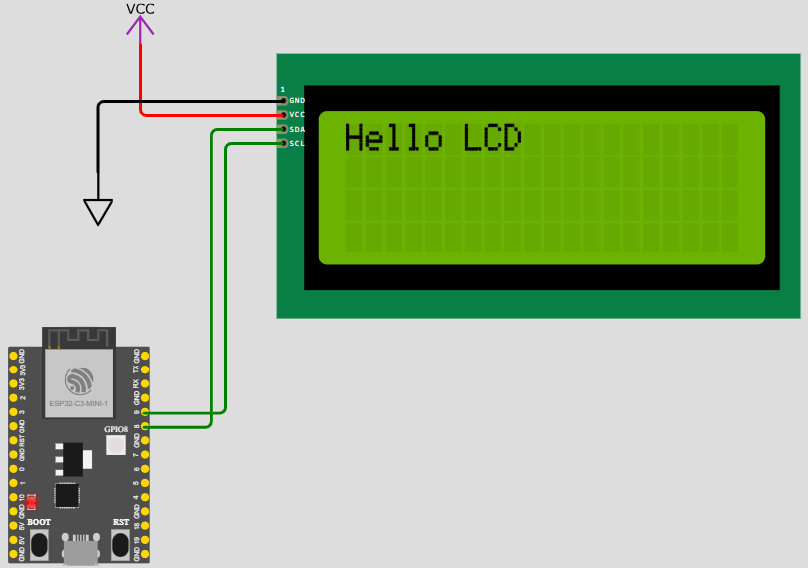
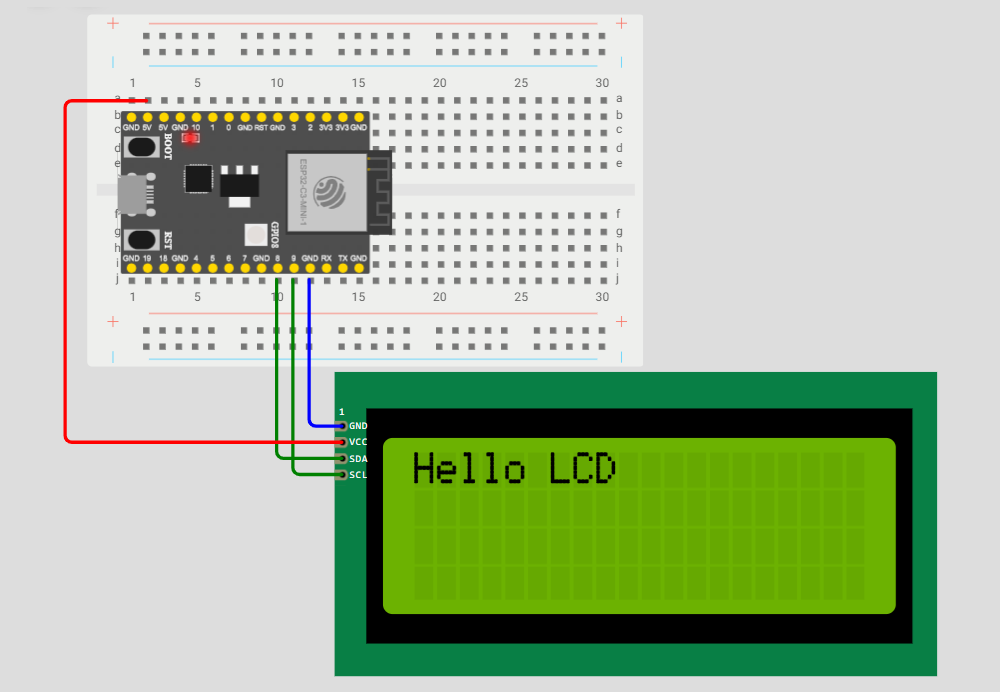
1142

diff --git a/Microcontroladores/2 - Espressif/html/2.1.9_a.html b/Microcontroladores/2 - Espressif/html/2.1.9_a.html
@@ -39,6 +39,7 @@
         <p class="MsoNormal" style="margin-bottom:.0001pt;line-height:14.25pt;background:white;"><span style="font-family:Consolas; font-size:10.5pt; color:#00979D; ">void</span><span style="font-family:Consolas; font-size:10.5pt; color:#4E5B61; "> </span><span style="font-family:Consolas; font-size:10.5pt; color:#D35400; ">loop</span><span style="font-family:Consolas; font-size:10.5pt; color:#434F54; ">()</span><span style="font-family:Consolas; font-size:10.5pt; color:#4E5B61; "> </span><span style="font-family:Consolas; font-size:10.5pt; color:#434F54; ">{</span><span style="font-family:Consolas; font-size:10.5pt; color:#4E5B61; "> </span></p>
         <p class="MsoNormal" style="margin-bottom:.0001pt;line-height:14.25pt;background:white;"><span style="font-family:Consolas; font-size:10.5pt; color:#95A5A6; ">&nbsp; // put your main code here, to run repeatedly:</span><span style="font-family:Consolas; font-size:10.5pt; color:#4E5B61; "> </span></p>
         <p class="MsoNormal" style="margin-bottom:.0001pt;line-height:14.25pt;background:white;"><span style="font-family:Consolas; font-size:10.5pt; color:#4E5B61; ">&nbsp; </span><span style="font-family:Consolas; font-size:10.5pt; color:#D35400; ">sensors</span><span style="font-family:Consolas; font-size:10.5pt; color:#4E5B61; ">.</span><span style="font-family:Consolas; font-size:10.5pt; color:#D35400; ">requestTemperatures</span><span style="font-family:Consolas; font-size:10.5pt; color:#434F54; ">()</span><span style="font-family:Consolas; font-size:10.5pt; color:#4E5B61; ">;</span><span style="font-family:Consolas; font-size:10.5pt; color:#95A5A6; "> // Send the command to get temperatures</span><span style="font-family:Consolas; font-size:10.5pt; color:#4E5B61; "> </span></p>
+		<p class="MsoNormal" style="margin-bottom:.0001pt;line-height:14.25pt;background:white;"><span style="font-family:Consolas; font-size:10.5pt; color:#4E5B61; ">&nbsp; </span><span style="font-family:Consolas; font-size:10.5pt; color:#D35400; ">delay</span><span style="font-family:Consolas; font-size:10.5pt; color:#434F54; ">(</span><span style="font-family:Consolas; font-size:10.5pt; color:#005C5F; ">100</span><span style="font-family:Consolas; font-size:10.5pt; color:#434F54; ">)</span><span style="font-family:Consolas; font-size:10.5pt; color:#4E5B61; ">;</span></p>
         <p class="MsoNormal" style="margin-bottom:.0001pt;line-height:14.25pt;background:white;"><span style="font-family:Consolas; font-size:10.5pt; color:#4E5B61; ">&nbsp;</span></p>
         <p class="MsoNormal" style="margin-bottom:.0001pt;line-height:14.25pt;background:white;"><span style="font-family:Consolas; font-size:10.5pt; color:#4E5B61; ">&nbsp; tempC = </span><span style="font-family:Consolas; font-size:10.5pt; color:#D35400; ">sensors</span><span style="font-family:Consolas; font-size:10.5pt; color:#4E5B61; ">.</span><span style="font-family:Consolas; font-size:10.5pt; color:#D35400; ">getTempCByIndex</span><span style="font-family:Consolas; font-size:10.5pt; color:#434F54; ">(</span><span style="font-family:Consolas; font-size:10.5pt; color:#005C5F; ">0</span><span style="font-family:Consolas; font-size:10.5pt; color:#434F54; ">)</span><span style="font-family:Consolas; font-size:10.5pt; color:#4E5B61; ">;</span></p>
         <p class="MsoNormal" style="margin-bottom:.0001pt;line-height:14.25pt;background:white;"><span style="font-family:Consolas; font-size:10.5pt; color:#4E5B61; ">&nbsp; </span><span style="font-family:Consolas; font-size:10.5pt; color:#728E00; ">if</span><span style="font-family:Consolas; font-size:10.5pt; color:#4E5B61; "> </span><span style="font-family:Consolas; font-size:10.5pt; color:#434F54; ">(</span><span style="font-family:Consolas; font-size:10.5pt; color:#4E5B61; ">tempC != DEVICE_DISCONNECTED_C</span><span style="font-family:Consolas; font-size:10.5pt; color:#434F54; ">)</span><span style="font-family:Consolas; font-size:10.5pt; color:#4E5B61; "> </span></p>
@@ -52,7 +53,8 @@
         <p class="MsoNormal" style="margin-bottom:.0001pt;line-height:14.25pt;background:white;"><span style="font-family:Consolas; font-size:10.5pt; color:#4E5B61; ">&nbsp; </span><span style="font-family:Consolas; font-size:10.5pt; color:#434F54; ">{</span><span style="font-family:Consolas; font-size:10.5pt; color:#4E5B61; "> </span></p>
         <p class="MsoNormal" style="margin-bottom:.0001pt;line-height:14.25pt;background:white;"><span style="font-family:Consolas; font-size:10.5pt; color:#4E5B61; ">&nbsp; &nbsp; </span><span style="font-family:Consolas; font-size:10.5pt; color:#D35400; ">lcd</span><span style="font-family:Consolas; font-size:10.5pt; color:#4E5B61; ">.</span><span style="font-family:Consolas; font-size:10.5pt; color:#D35400; ">setCursor</span><span style="font-family:Consolas; font-size:10.5pt; color:#434F54; ">(</span><span style="font-family:Consolas; font-size:10.5pt; color:#005C5F; ">13</span><span style="font-family:Consolas; font-size:10.5pt; color:#4E5B61; ">, </span><span style="font-family:Consolas; font-size:10.5pt; color:#005C5F; ">0</span><span style="font-family:Consolas; font-size:10.5pt; color:#434F54; ">)</span><span style="font-family:Consolas; font-size:10.5pt; color:#4E5B61; ">;</span></p>
         <p class="MsoNormal" style="margin-bottom:.0001pt;line-height:14.25pt;background:white;"><span style="font-family:Consolas; font-size:10.5pt; color:#4E5B61; ">&nbsp; &nbsp; </span><span style="font-family:Consolas; font-size:10.5pt; color:#D35400; ">lcd</span><span style="font-family:Consolas; font-size:10.5pt; color:#4E5B61; ">.</span><span style="font-family:Consolas; font-size:10.5pt; color:#D35400; ">print</span><span style="font-family:Consolas; font-size:10.5pt; color:#434F54; ">(</span><span style="font-family:Consolas; font-size:10.5pt; color:#005C5F; ">&quot;error!&quot;</span><span style="font-family:Consolas; font-size:10.5pt; color:#434F54; ">)</span><span style="font-family:Consolas; font-size:10.5pt; color:#4E5B61; ">;</span></p>
-        <p class="MsoNormal" style="margin-bottom:.0001pt;line-height:14.25pt;background:white;"><span style="font-family:Consolas; font-size:10.5pt; color:#4E5B61; ">&nbsp; </span><span style="font-family:Consolas; font-size:10.5pt; color:#434F54; ">}</span><span style="font-family:Consolas; font-size:10.5pt; color:#4E5B61; "> </span></p>
+        <p class="MsoNormal" style="margin-bottom:.0001pt;line-height:14.25pt;background:white;"><span style="font-family:Consolas; font-size:10.5pt; color:#4E5B61; ">&nbsp; </span><span style="font-family:Consolas; font-size:10.5pt; color:#434F54; ">}</span></p>
+		<p class="MsoNormal" style="margin-bottom:.0001pt;line-height:14.25pt;background:white;"><span style="font-family:Consolas; font-size:10.5pt; color:#4E5B61; ">&nbsp; </span><span style="font-family:Consolas; font-size:10.5pt; color:#D35400; ">delay</span><span style="font-family:Consolas; font-size:10.5pt; color:#434F54; ">(</span><span style="font-family:Consolas; font-size:10.5pt; color:#005C5F; ">500</span><span style="font-family:Consolas; font-size:10.5pt; color:#434F54; ">)</span><span style="font-family:Consolas; font-size:10.5pt; color:#4E5B61; ">;</span></p>
         <p class="MsoNormal" style="margin-bottom:.0001pt;line-height:14.25pt;background:white;"><span style="font-family:Consolas; font-size:10.5pt; color:#434F54; ">}</span></p>
     </body>
 </html>

diff --git a/Microcontroladores/2 - Espressif/2.6 Arduino Nano_SSD1306_Arduino.html b/Microcontroladores/2 - Espressif/2.6 Arduino Nano_SSD1306_Arduino.html
@@ -125,10 +125,10 @@
 			<a id="Comunicacion One Wire sensor DS18B20"></a>
 			<b><i>9 - Comunicación One Wire: sensor DS18B20</i></b>
 			<br><br>
-			<input type="button" onClick="document.getElementById('img_zoom_9').src = 'img/2.6.9_a.png'; LoadImages();" value="Ver circuito Proteus">
+			<!--<input type="button" onClick="document.getElementById('img_zoom_9').src = 'img/2.6.9_a.png'; LoadImages();" value="Ver circuito Proteus">
 			<input type="button" onClick="document.getElementById('img_zoom_9').src = 'img/2.6.9_b.png'; LoadImages();" value="Ver circuito Wokwi">
-			<br><br>
-			<div align="center"><img id="img_zoom_9" src="img/2.6.9_a.png" alt="" width="1000" height="auto"></div>
+			<br><br>-->
+			<div align="center"><img id="img_zoom_9" src="img/2.6.9_b.png" alt="" width="1000" height="auto"></div>
 			<br>
 			Acceder a <b><i>LIBRARY MANAGER</i></b>, buscar e instalar la librería <b><i>DallasTemperature</i></b>
 			<br><br>
@@ -143,10 +143,10 @@
 			<a id="Comunicacion One Wire sensor DHT22"></a>
 			<b><i>10 - Comunicación One Wire: sensor DHT22</i></b>
 			<br><br>
-			<input type="button" onClick="document.getElementById('img_zoom_10').src = 'img/2.6.10_a.png'; LoadImages();" value="Ver circuito Proteus">
+			<!--<input type="button" onClick="document.getElementById('img_zoom_10').src = 'img/2.6.10_a.png'; LoadImages();" value="Ver circuito Proteus">
 			<input type="button" onClick="document.getElementById('img_zoom_10').src = 'img/2.6.10_b.png'; LoadImages();" value="Ver circuito Wokwi">
-			<br><br>
-			<div align="center"><img id="img_zoom_10" src="img/2.6.10_a.png" alt="" width="1000" height="auto"></div>
+			<br><br>-->
+			<div align="center"><img id="img_zoom_10" src="img/2.6.10_b.png" alt="" width="1000" height="auto"></div>
 			<br>
 			<iframe class="pag" id="ifrm10" name="ifrm10" scrolling="no" marginwidth="0" src="html/2.2.10_a.html?DHTPIN=3"></iframe>
 			<br><br><br>

diff --git a/Microcontroladores/2 - Espressif/2.5 Arduino Nano_LCD_Arduino.html b/Microcontroladores/2 - Espressif/2.5 Arduino Nano_LCD_Arduino.html
@@ -136,10 +136,10 @@
 			<a id="Comunicacion One Wire sensor DHT22"></a>
 			<b><i>10 - Comunicación One Wire: sensor DHT22</i></b>
 			<br><br>
-			<input type="button" onClick="document.getElementById('img_zoom_10').src = 'img/2.1.10_a.png'; LoadImages();" value="Ver circuito Proteus">
-			<input type="button" onClick="document.getElementById('img_zoom_10').src = 'img/2.1.10_b.png'; LoadImages();" value="Ver circuito Wokwi">
-			<br><br>
-			<div align="center"><img id="img_zoom_10" src="img/2.5.10_a.png" alt="" width="1000" height="auto"></div>
+			<!--<input type="button" onClick="document.getElementById('img_zoom_10').src = 'img/2.5.10_a.png'; LoadImages();" value="Ver circuito Proteus">
+			<input type="button" onClick="document.getElementById('img_zoom_10').src = 'img/2.5.10_b.png'; LoadImages();" value="Ver circuito Wokwi">
+			<br><br>-->
+			<div align="center"><img id="img_zoom_10" src="img/2.5.10_b.png" alt="" width="1000" height="auto"></div>
 			<br>
 			<iframe class="pag" id="ifrm10" name="ifrm10" scrolling="no" marginwidth="0" src="html/2.1.10_a.html?DHTPIN=3"></iframe>
 			<br><br><br>
